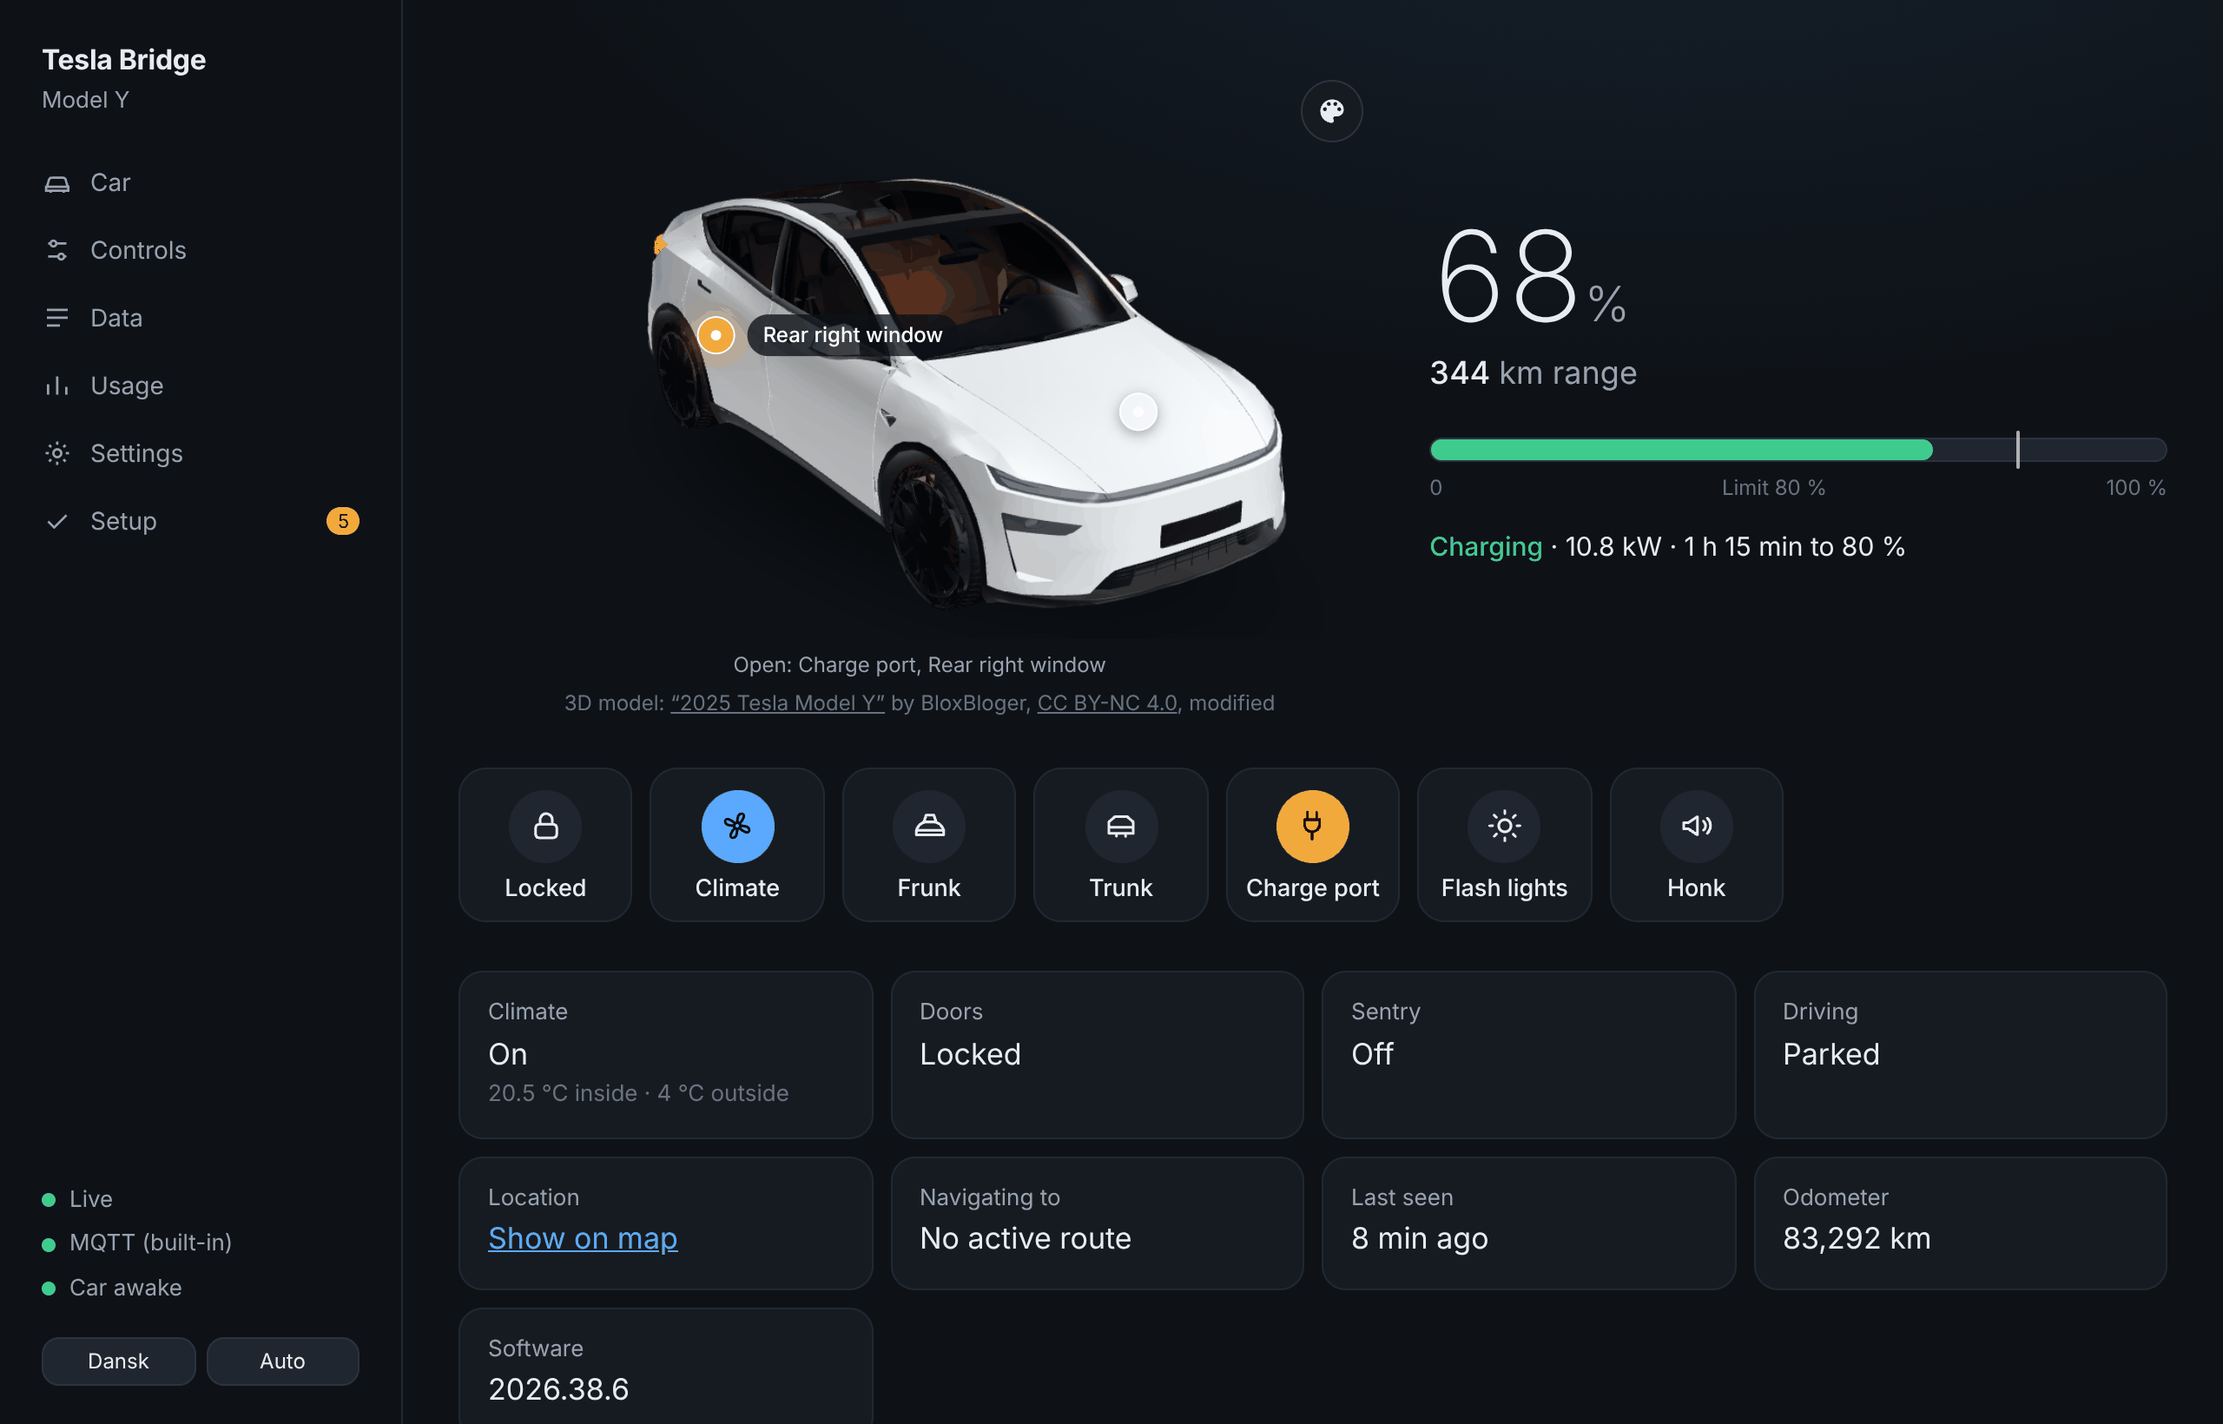
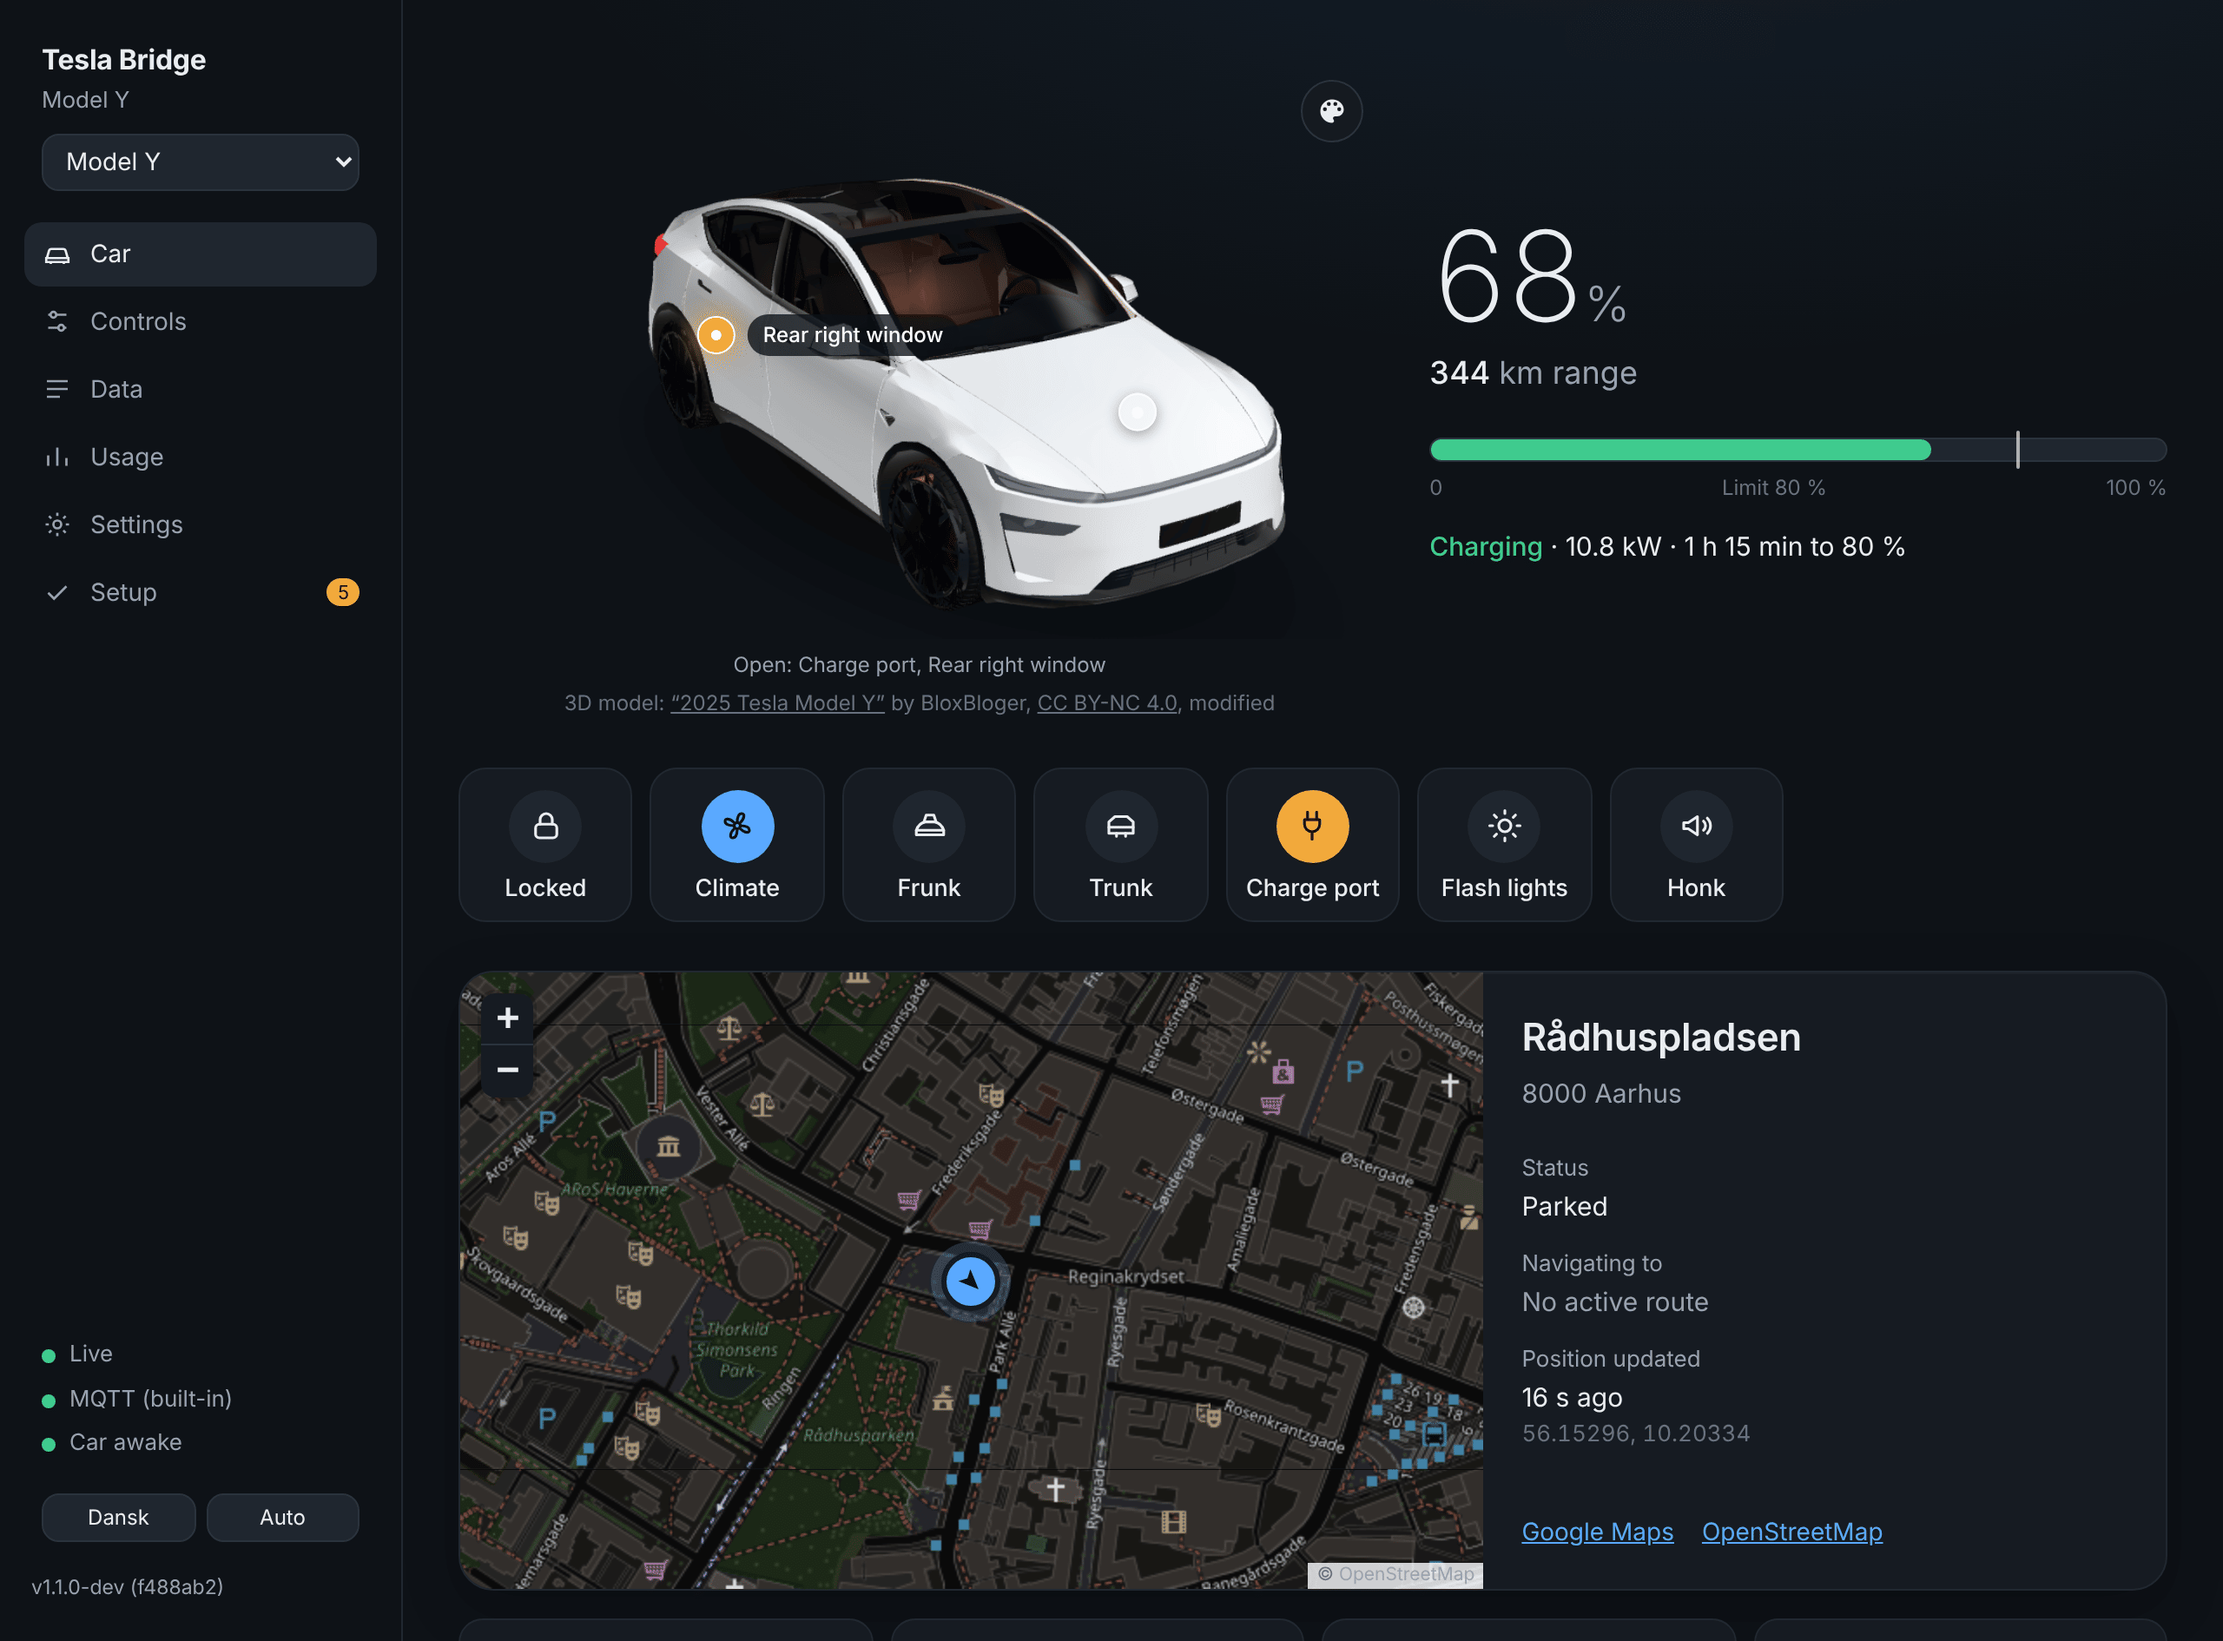
docs: new screenshots with the map, and Dependabot for every dependency
- Screenshots of the current dashboard (car with the map card, controls, settings, usage, phone), compressed
  with pngquant. The simulator now parks by Aarhus city hall, a public place, instead of a residential street.
- Dependabot: NuGet, npm, the Dockerfile's base images, Tesla's images in docker-compose.yml, GitHub Actions and
  the HA test harness – weekly, minor/patch grouped, majors one by one.
- Usage categories and a CLI message in English.

Claude-Session: https://claude.ai/code/session_01HvBFmgihwNYZ5zsJyA9kog

diff --git a/site/index.html b/site/index.html
@@ -164,7 +164,7 @@ footer .wrap { display: flex; flex-wrap: wrap; justify-content: space-between; g
         <li>One car fits in Tesla's free credit</li>
       </ul>
     </div>
-    <div class="shot"><img src="screenshots/car.png" alt="The bridge's dashboard: a 3D Model Y with the battery at 68 % and charging, quick actions and status" width="1600" height="1000"></div>
+    <div class="shot"><img src="screenshots/car.png" alt="The bridge's dashboard: a 3D Model Y with the battery at 68 % and charging, quick actions, and a map with the car's address" width="1600" height="1181"></div>
   </div>
 </header>
 

diff --git a/tests/TeslaBridge.Tests/MapTests.cs b/tests/TeslaBridge.Tests/MapTests.cs
@@ -19,17 +19,17 @@ public class MapTests
     }
 
     private const string House = """
-        { "name": "", "display_name": "12, Skanderborgvej, Hasselager, Aarhus Kommune, 8361, Danmark",
-          "address": { "house_number": "12", "road": "Skanderborgvej", "suburb": "Hasselager", "city": "Aarhus",
-                       "municipality": "Aarhus Kommune", "postcode": "8361", "country": "Danmark", "country_code": "dk" } }
+        { "name": "", "display_name": "2, Rådhuspladsen, Aarhus C, Aarhus Kommune, 8000, Danmark",
+          "address": { "house_number": "2", "road": "Rådhuspladsen", "suburb": "Aarhus C", "city": "Aarhus",
+                       "municipality": "Aarhus Kommune", "postcode": "8000", "country": "Danmark", "country_code": "dk" } }
         """;
 
     [Fact]
     public void A_house_becomes_street_and_number_over_postcode_and_city()
     {
         var a = ReverseGeocoder.Format(JsonNode.Parse(House))!;
-        Assert.Equal("Skanderborgvej 12", a.Line1);
-        Assert.Equal("8361 Aarhus", a.Line2);
+        Assert.Equal("Rådhuspladsen 2", a.Line1);
+        Assert.Equal("8000 Aarhus", a.Line2);
         Assert.Null(a.Place);
         Assert.Equal("dk", a.CountryCode);
     }
@@ -38,11 +38,11 @@ public class MapTests
     public void A_named_place_is_kept_next_to_the_street()
     {
         var a = ReverseGeocoder.Format(JsonNode.Parse("""
-            { "name": "Tesla Supercharger", "display_name": "Tesla Supercharger, Hasselager Allé, 8260 Viby J",
-              "address": { "amenity": "Tesla Supercharger", "road": "Hasselager Allé", "town": "Viby J", "postcode": "8260" } }
+            { "name": "Tesla Supercharger", "display_name": "Tesla Supercharger, Agro Food Park, 8200 Aarhus N",
+              "address": { "amenity": "Tesla Supercharger", "road": "Agro Food Park", "town": "Aarhus N", "postcode": "8200" } }
             """))!;
-        Assert.Equal("Hasselager Allé", a.Line1);
-        Assert.Equal("8260 Viby J", a.Line2);
+        Assert.Equal("Agro Food Park", a.Line1);
+        Assert.Equal("8200 Aarhus N", a.Line2);
         Assert.Equal("Tesla Supercharger", a.Place);
     }
 
@@ -61,14 +61,14 @@ public class MapTests
         var fake = new FakeNominatim(House);
         var g = new ReverseGeocoder(new HttpClient(fake), "https://geo.example.com/") { Spacing = TimeSpan.Zero };
 
-        var a = await g.LookupAsync(56.118501, 10.123499, "da", default);
-        var b = await g.LookupAsync(56.118504, 10.123502, "da", default);   // < 1 m away
-        await g.LookupAsync(56.118501, 10.123499, "en", default);          // another language is another answer
+        var a = await g.LookupAsync(56.153001, 10.203299, "da", default);
+        var b = await g.LookupAsync(56.153004, 10.203302, "da", default);   // < 1 m away
+        await g.LookupAsync(56.153001, 10.203299, "en", default);          // another language is another answer
 
         Assert.Same(a, b);
         Assert.Equal(2, g.Requests);
         Assert.StartsWith("https://geo.example.com/reverse?format=jsonv2", fake.Urls[0]);
-        Assert.Contains("lat=56.118501&lon=10.123499&accept-language=da", fake.Urls[0]);
+        Assert.Contains("lat=56.153001&lon=10.203299&accept-language=da", fake.Urls[0]);
     }
 
     [Fact]

diff --git a/src/TeslaBridge/Web/WebApi.cs b/src/TeslaBridge/Web/WebApi.cs
@@ -186,10 +186,11 @@ public static class WebApi
                     ("ACChargingPower", "11.0"),
                     ("DoorState", "{\"DriverFront\":false,\"PassengerFront\":false,\"DriverRear\":false,\"PassengerRear\":false,\"TrunkFront\":false,\"TrunkRear\":false}"),
                 }.ToList();
-                // Every second press the car drives a little around Aarhus towards a destination; the first one parks it.
+                // Every second press the car drives a little around central Aarhus towards a destination; the first one
+                // parks it by the city hall.
                 var inv = System.Globalization.CultureInfo.InvariantCulture;
                 var driving = Interlocked.Increment(ref _simulatorPresses) % 2 == 0;
-                var (lat, lon) = (56.1185 + (driving ? (rnd.NextDouble() - .5) * .02 : 0), 10.1235 + (driving ? (rnd.NextDouble() - .5) * .03 : 0));
+                var (lat, lon) = (56.1530 + (driving ? (rnd.NextDouble() - .5) * .02 : 0), 10.2033 + (driving ? (rnd.NextDouble() - .5) * .03 : 0));
                 samples.Add(("Location", string.Format(inv, "{{\"latitude\":{0:0.000000},\"longitude\":{1:0.000000}}}", lat, lon)));
                 samples.Add(("GpsHeading", rnd.Next(0, 360).ToString(inv)));
                 samples.Add(("Gear", driving ? "\"ShiftStateD\"" : "\"ShiftStateP\""));

diff --git a/src/TeslaBridge/Usage/UsageTracker.cs b/src/TeslaBridge/Usage/UsageTracker.cs
@@ -116,9 +116,9 @@ public sealed class UsageTracker(TimeProvider time)
             var data = c.Data.Values.Sum();
             var categories = new List<UsageCategory>
             {
-                new("signals", "Signaler (stream)", signals, signals / SignalsPerDollar, "$1 / 150.000"),
-                new("commands", "Kommandoer", commands, commands / CommandsPerDollar, "$1 / 1.000"),
-                new("wakes", "Wakes", c.Wakes, c.Wakes / WakesPerDollar, "$1 / 50"),
+                new("signals", "Signals (stream)", signals, signals / SignalsPerDollar, "$1 / 150,000"),
+                new("commands", "Commands", commands, commands / CommandsPerDollar, "$1 / 1,000"),
+                new("wakes", "Wake-ups", c.Wakes, c.Wakes / WakesPerDollar, "$1 / 50"),
                 new("data", "Data requests", data, data / DataPerDollar, "$1 / 500"),
             };
             var total = categories.Sum(x => x.CostUsd);

diff --git a/tests/ha/test_live_bridge.py b/tests/ha/test_live_bridge.py
@@ -48,7 +48,7 @@ async def test_entities_follow_the_bridge(hass: HomeAssistant, socket_enabled) -
     assert hass.states.get("lock.model_y_lock").state in ("locked", "unlocked")
     assert hass.states.get("cover.model_y_frunk").state == "closed"
     loc = hass.states.get("device_tracker.model_y_location")
-    assert abs(loc.attributes["latitude"] - 56.1185) < 0.02   # the simulator moves the car on every second press
+    assert abs(loc.attributes["latitude"] - 56.1530) < 0.02   # the simulator moves the car on every second press
     clim = hass.states.get("climate.model_y_climate")
     print("climate", clim.state, clim.attributes)
     assert clim.state in ("heat_cool", "off")

diff --git a/src/TeslaBridge/Map/ReverseGeocoder.cs b/src/TeslaBridge/Map/ReverseGeocoder.cs
@@ -4,7 +4,7 @@ using TeslaBridge.Options;
 
 namespace TeslaBridge.Map;
 
-/// <summary>A street address for a position, ready to show: "Skanderborgvej 12" / "8361 Hasselager".</summary>
+/// <summary>A street address for a position, ready to show: "Rådhuspladsen 2" / "8000 Aarhus C".</summary>
 public sealed record StreetAddress(string Line1, string? Line2, string? Place, string? Country, string? CountryCode, string Full);
 
 /// <summary>

diff --git a/src/TeslaBridge/Cli/CliCommands.cs b/src/TeslaBridge/Cli/CliCommands.cs
@@ -96,7 +96,7 @@ public static class CliCommands
         }
         catch (Exception ex)
         {
-            Console.Error.WriteLine($"Fejl: {ex.Message}");
+            Console.Error.WriteLine($"Error: {ex.Message}");
             return 1;
         }
     }

diff --git a/README.md b/README.md
@@ -12,11 +12,11 @@ A self-hosted replacement for Teslemetry. Your car streams directly to your own 
 
 <table>
 <tr>
-<td width="66%"><img src="docs/screenshots/car.png" alt="The car page: a 3D Model Y with an open rear window marked, 68 % battery charging at 10.8 kW towards an 80 % limit, quick actions and status"></td>
+<td width="66%"><img src="docs/screenshots/car.png" alt="The car page: a 3D Model Y with an open rear window marked, 68 % battery charging at 10.8 kW towards an 80 % limit, quick actions, and a map with the car parked at Rådhuspladsen in Aarhus"></td>
 <td><img src="docs/screenshots/phone-car.png" alt="The car page on a phone in light mode"></td>
 </tr>
 <tr>
-<td><b>Car</b> – the car in 3D with open doors, windows, frunk, trunk and charge port live; battery, range and charging; quick actions.</td>
+<td><b>Car</b> – the car in 3D with open doors, windows, frunk, trunk and charge port live; battery, range and charging; quick actions; where it is on a map, with the street address.</td>
 <td><b>On a phone</b></td>
 </tr>
 <tr>
